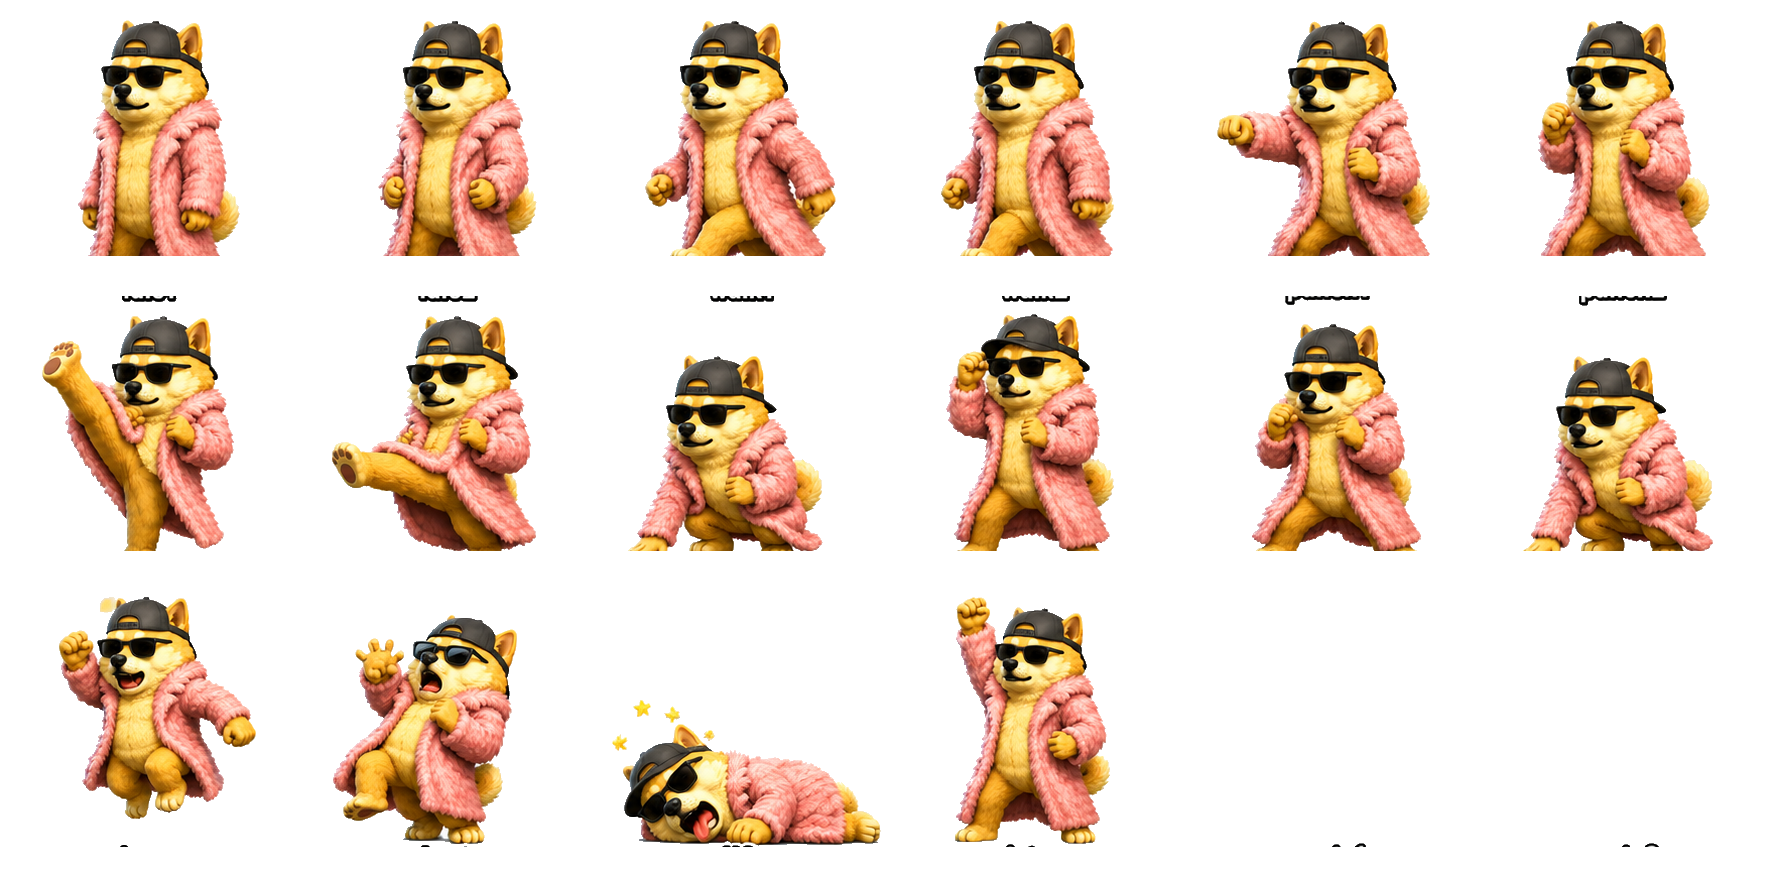
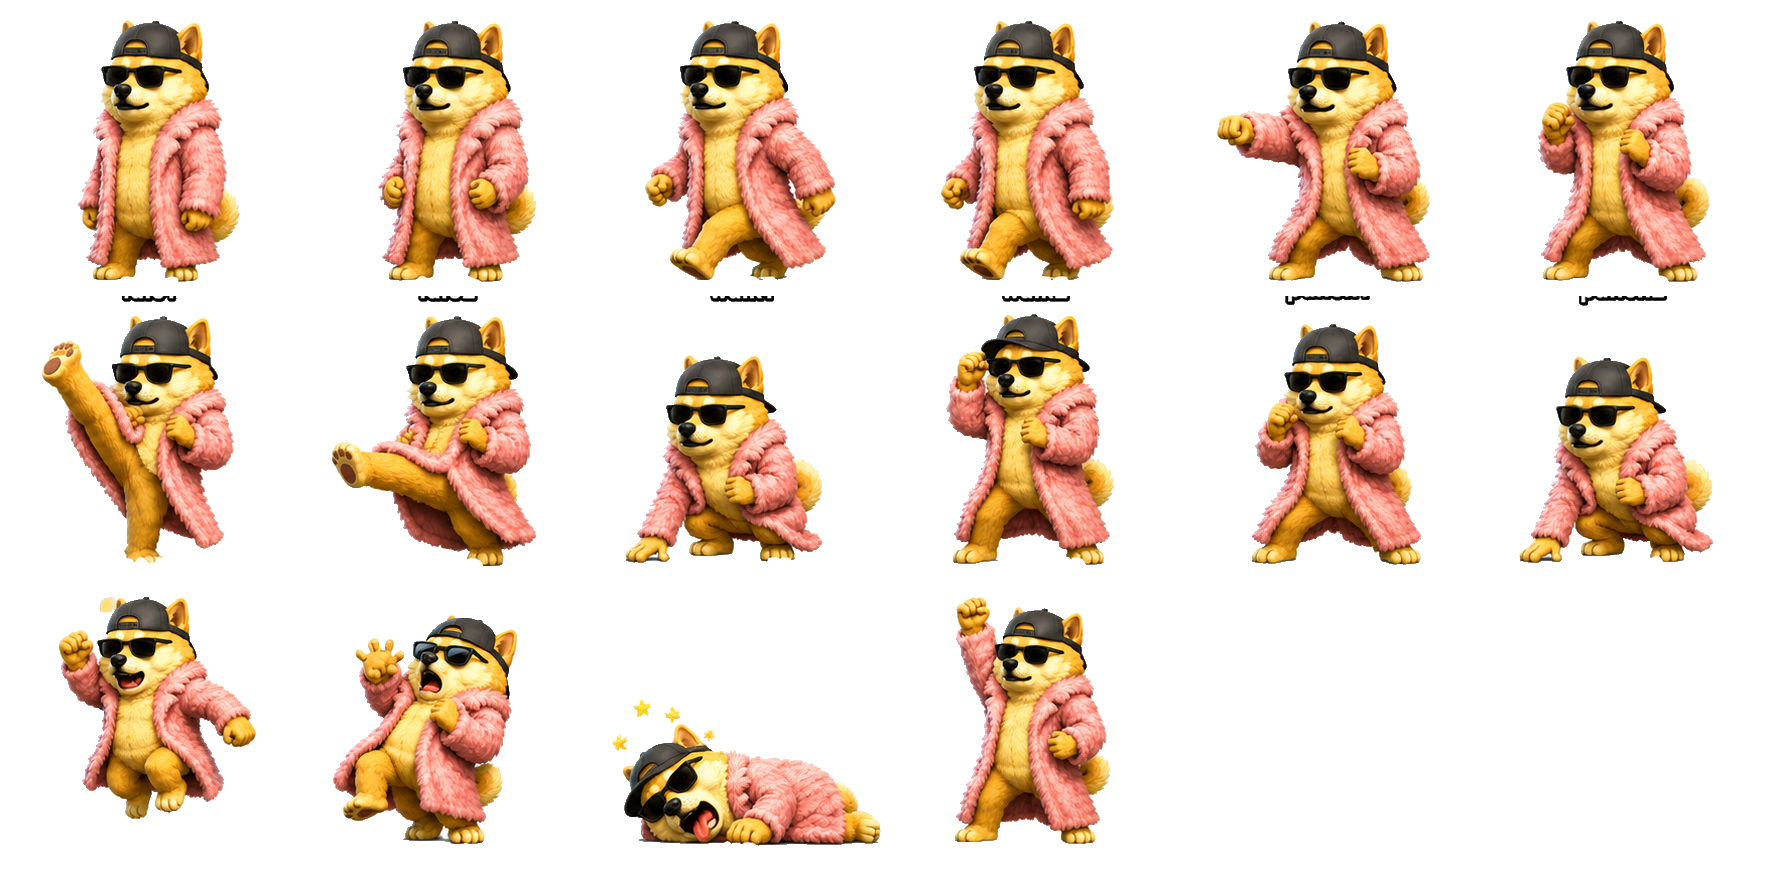
Troll Kombat: feel fixes + full-width MK arena + label-free sheets
Gameplay:
- Specials get super-armor — an incoming hit no longer cancels your special.
- Blocking made reliable: lighter chip (10%), softer block stamina drain, and
  a shorter/forgiving "rekt" stagger so guarding actually holds.
- Movement freed up: wider arena bounds, higher jump, and soft *passable*
  separation so you can push through an opponent (no more cornered-on-the-left).

Bigger arena + layout:
- Canvas world enlarged to 1280x600; floor/walls/spawns/fighter scale derive
  from it so there's real room to move.
- Cabinet is now full-bleed (spans the device width) with the hero copy stacked
  above; HUD/controls align to the play screen; bolder Mortal-Kombat-style HUD.

Art:
- Re-cleaned the ChatGPT sheets with component-based label removal — the baked
  text (e.g. the "jump"/"KO" labels that showed on the sprite) is gone, feet
  intact. Verified via contact-strip renders + the headless match harness.

diff --git a/assets/games/troll-kombat/game.js b/assets/games/troll-kombat/game.js
@@ -22,10 +22,11 @@
   const H = canvas.height;  // 540
 
   // --- Stage geometry ---------------------------------------------------------
-  const FLOOR_Y = 486;          // y of the ground line (feet rest here)
-  const WALL_L = 128;           // left fighter bound (fighter centre)
-  const WALL_R = W - 128;       // right fighter bound
+  const FLOOR_Y = H - 56;       // y of the ground line (feet rest here)
+  const WALL_L = 70;            // left fighter bound (fighter centre) — roomy arena
+  const WALL_R = W - 70;        // right fighter bound
   const FIGHTER_SCALE = 1.18;   // rig is ~190px tall before scale
+  const SPAWN_L = Math.round(W * 0.30), SPAWN_R = Math.round(W * 0.70);
 
   // --- Match tuning -----------------------------------------------------------
   const ROUND_TIME = 60;        // seconds
@@ -180,7 +181,7 @@
   // procedural muscle rig. `spriteScale` maps the source top->feet span to
   // TARGET_BODY so every fighter is the same on-screen height.
   const SPRITE_DIR = "assets/games/troll-kombat/fighters/";
-  const TARGET_BODY = 272;   // on-screen feet->top height, px
+  const TARGET_BODY = 300;   // on-screen feet->top height, px
 
   // Strip near-black pixels → transparent. Returns an offscreen canvas.
   function stripBlackBg(img, threshold) {
@@ -517,7 +518,7 @@
     // Stamina bottomed out → drop guard, brief vulnerable stagger.
     enterRekt() {
       if (this.rektStun > 0 || this.state === "ko") return;
-      this.rektStun = 1.1;
+      this.rektStun = 0.8;
       this.state = "hit";
       this.attack = null;
       this.stamina = 0;
@@ -545,26 +546,31 @@
       if (this.rektStun > 0 && !blocked) dmg *= 1.25;   // rekt = extra vulnerable
       this.facing = fromX < this.x ? 1 : -1;
       if (blocked) {
-        this.hp = Math.max(0, this.hp - dmg * 0.18);
-        this.blockStun = 0.16;
-        this.vx = (this.x < fromX ? -1 : 1) * push * 0.4;
+        this.hp = Math.max(0, this.hp - dmg * 0.1);     // light chip only
+        this.blockStun = 0.12;
+        this.vx = (this.x < fromX ? -1 : 1) * push * 0.32;
         this.meter = Math.min(MAX_METER, this.meter + dmg * 0.4);
         audio.block();
-        spark(this.x + this.facing * 50, this.feetY - 150, this.pal.accent, 6, true);
+        spark(this.x + this.facing * 50, this.feetY - 150, this.pal.accent, 12, true);
         return;
       }
       this.hp = Math.max(0, this.hp - dmg);
       this.tookDamage = true;
-      this.hitstun = 0.30;
+      this.meter = Math.min(MAX_METER, this.meter + dmg * 1.1);
       this.flash = 0.16;
       this.hurtFace = 0.6;
-      this.state = "hit";
-      this.attack = null;
-      this.vx = (this.x < fromX ? -1 : 1) * push;
-      this.meter = Math.min(MAX_METER, this.meter + dmg * 1.1);
       audio.hitSpark();
       spark(this.x + (fromX < this.x ? 44 : -44), this.feetY - 150, "#fff2a8", 12, false);
       shake(Math.min(10, dmg * 0.7));
+      // Super-armor: a special in progress powers through incoming hits.
+      if (this.attack && this.attack.type === "special") {
+        this.vx = (this.x < fromX ? -1 : 1) * push * 0.25;
+      } else {
+        this.hitstun = 0.30;
+        this.state = "hit";
+        this.attack = null;
+        this.vx = (this.x < fromX ? -1 : 1) * push;
+      }
       if (this.hp <= 0) this.ko();
     }
     ko() {
@@ -582,7 +588,7 @@
       this.dashT = Math.max(0, this.dashT - dt);
       const wasRekt = this.rektStun > 0;
       this.rektStun = Math.max(0, this.rektStun - dt);
-      if (wasRekt && this.rektStun === 0) this.stamina = 35;   // recover after the stagger
+      if (wasRekt && this.rektStun === 0) this.stamina = 45;   // recover after the stagger
       this.vx = (this.vx || 0);
 
       // blink
@@ -628,27 +634,27 @@
         if (intent.special) this.startAttack("special");
         else if (intent.kick) this.startAttack("kick");
         else if (intent.punch) this.startAttack("punch");
-        else if (intent.dash && this.grounded && this.dashT <= 0 && this.stamina >= 18) {
+        else if (intent.dash && this.grounded && this.dashT <= 0 && this.stamina >= 16) {
           const d = move !== 0 ? move : this.facing;
-          this.vx = d * 470; this.dashT = 0.26; this.stamina -= 18;
+          this.vx = d * 560; this.dashT = 0.26; this.stamina -= 16;
           this.state = "walk"; this.walkDir = d * this.facing;
           audio.blip(440, 0.12, "sawtooth", 0.1, 700); regen = false;
         }
         else if (intent.up && this.grounded) {
-          this.vy = 520; this.state = "jump";
-          this.stamina = Math.max(0, this.stamina - 12); audio.jump(); regen = false;
+          this.vy = 680; this.state = "jump";
+          this.stamina = Math.max(0, this.stamina - 8); audio.jump(); regen = false;
         }
         else {
           const blocking = intent.block && this.grounded;
           if (blocking) {
             this.state = "block"; this.vx *= 0.6;
-            this.stamina -= 26 * dt; regen = false;
+            this.stamina -= 12 * dt; regen = false;
             if (this.stamina <= 0) { this.stamina = 0; this.enterRekt(); }
           }
           else if (intent.crouch && this.grounded) { this.state = "crouch"; }
           else if (this.grounded) {
             if (move !== 0) {
-              this.x += move * 230 * dt;
+              this.x += move * 280 * dt;
               this.state = "walk";
               this.walkDir = move * this.facing; // +1 forward, -1 back
             } else { this.state = "idle"; }
@@ -1388,8 +1394,8 @@
     init(p1Def, p2Def, diff) {
       this.diff = diff;
       this.fighters = [
-        new Fighter(p1Def, 320, 1, false),
-        new Fighter(p2Def, 640, -1, true),
+        new Fighter(p1Def, SPAWN_L, 1, false),
+        new Fighter(p2Def, SPAWN_R, -1, true),
       ];
       this.fighters[0].rounds = 0; this.fighters[1].rounds = 0;
       this.ai = new AI(diff);
@@ -1400,7 +1406,7 @@
     },
     startRound() {
       const [a, b] = this.fighters;
-      a.reset(320, 1); b.reset(640, -1);   // HP resets each round; meter carries over
+      a.reset(SPAWN_L, 1); b.reset(SPAWN_R, -1);   // HP resets each round; meter carries over
       this.timer = ROUND_TIME;
       this.phase = "intro"; this.phaseT = 0;
       this.finisher = false;
@@ -1491,11 +1497,13 @@
   };
   const NEUTRAL = { left: false, right: false, up: false, crouch: false, block: false, punch: false, kick: false, special: false };
 
+  // Soft, passable separation: a gentle nudge when nearly overlapping so you can
+  // still push through an opponent (no more getting cornered against a wall).
   function separate(a, b) {
-    const minGap = 100;
+    const minGap = 46;
     const dx = b.x - a.x;
     if (Math.abs(dx) < minGap && a.grounded && b.grounded) {
-      const overlap = (minGap - Math.abs(dx)) / 2;
+      const overlap = (minGap - Math.abs(dx)) / 2 * 0.28;
       const s = dx >= 0 ? 1 : -1;
       a.x -= s * overlap; b.x += s * overlap;
       a.x = clamp(a.x, WALL_L, WALL_R); b.x = clamp(b.x, WALL_L, WALL_R);

diff --git a/assets/games/troll-kombat/style.css b/assets/games/troll-kombat/style.css
@@ -74,13 +74,16 @@ h1, h2, h3, p { margin: 0; }
 .arcade-shell { width: min(1440px, 100%); margin: 0 auto; padding: clamp(12px, 2.2vw, 28px); }
 
 /* ---- Hero copy --------------------------------------------------------- */
+/* Stacked layout so the arena can span the full device width (MK-style). */
 .fight-hero {
-  display: grid;
-  grid-template-columns: minmax(260px, 0.58fr) minmax(360px, 1.42fr);
-  gap: clamp(18px, 3vw, 34px); align-items: center;
-  min-height: calc(100svh - 78px); padding-bottom: clamp(14px, 2vw, 24px);
+  display: flex; flex-direction: column; gap: clamp(10px, 1.6vw, 18px);
+  padding-bottom: clamp(14px, 2vw, 24px);
 }
-.game-copy { min-width: 0; display: grid; gap: 16px; align-content: center; }
+.game-copy {
+  min-width: 0; display: grid; gap: 12px; align-content: center;
+  width: min(1100px, 100%); margin: 0 auto; text-align: center; justify-items: center;
+}
+.hero-stats, .stat-chips { justify-content: center; }
 .eyebrow {
   color: var(--green); font-family: var(--mono); font-size: 12px; font-weight: 900;
   text-transform: uppercase; text-shadow: 0 0 16px rgba(77, 255, 115, 0.56);
@@ -102,14 +105,18 @@ h1 {
 /* ---- Cabinet ----------------------------------------------------------- */
 .fight-cabinet {
   position: relative; min-width: 0; overflow: hidden;
-  border: 1px solid rgba(255, 255, 255, 0.18); border-radius: 8px;
+  width: 100vw; margin-left: calc(50% - 50vw);   /* full-bleed across the device */
+  border-top: 2px solid rgba(255, 49, 79, 0.4); border-bottom: 2px solid rgba(255, 49, 79, 0.4);
   background:
-    linear-gradient(180deg, rgba(255, 255, 255, 0.08), transparent 16%),
-    linear-gradient(145deg, rgba(255, 49, 79, 0.18), rgba(154, 92, 255, 0.12) 40%, rgba(77, 255, 115, 0.1)),
-    var(--panel);
-  box-shadow: var(--shadow), 0 0 55px rgba(255, 49, 79, 0.16);
+    linear-gradient(180deg, rgba(255, 255, 255, 0.06), transparent 12%),
+    radial-gradient(120% 80% at 50% 0%, rgba(255, 49, 79, 0.16), transparent 60%),
+    linear-gradient(180deg, #0b0410, #050008 60%);
+  box-shadow: var(--shadow), 0 0 70px rgba(255, 49, 79, 0.18);
 }
-.fight-cabinet::before { content: ""; position: absolute; inset: 8px; border: 1px solid rgba(255, 49, 79, 0.22); pointer-events: none; }
+.fight-cabinet::before {
+  content: ""; position: absolute; inset: 0; pointer-events: none;
+  border-top: 1px solid rgba(255, 49, 79, 0.25); border-bottom: 1px solid rgba(255, 49, 79, 0.25);
+}
 .cabinet-marquee {
   position: relative; z-index: 1; display: flex; align-items: center; justify-content: space-between; gap: 12px;
   padding: 15px 18px; border-bottom: 1px solid rgba(255, 255, 255, 0.16);
@@ -173,10 +180,10 @@ h1 {
 /* ---- Screen + canvas --------------------------------------------------- */
 .screen-wrap {
   position: relative; z-index: 1;
-  width: min(calc(100% - 24px), calc(min(60svh, 660px) * 16 / 9));
-  margin: 0 auto; overflow: hidden; aspect-ratio: 16 / 9; max-height: min(60svh, 660px);
+  width: min(calc(100vw - 8px), calc(min(84svh, 900px) * 1280 / 600));
+  margin: 0 auto; overflow: hidden; aspect-ratio: 1280 / 600; max-height: min(84svh, 900px);
   border: 1px solid rgba(255, 49, 79, 0.34); background: #050008;
-  box-shadow: inset 0 0 34px rgba(255, 49, 79, 0.12);
+  box-shadow: inset 0 0 40px rgba(255, 49, 79, 0.14);
   touch-action: none; user-select: none; -webkit-user-select: none;
 }
 #tk-canvas { display: block; width: 100%; height: 100%; background: #0a0510; }
@@ -456,9 +463,23 @@ h1 {
 /* toy-mode cabinet gets a cooler, glassier screen glow */
 body[data-mode="toy"] .screen-wrap { box-shadow: inset 0 0 48px rgba(77, 238, 255, 0.16); }
 
+/* Full-bleed cabinet: align HUD + controls to the play screen, bolder MK HUD. */
+.fight-cabinet { --screenW: min(calc(100vw - 8px), calc(min(84svh, 900px) * 1280 / 600)); }
+.fight-hud, .cabinet-footer, .touch-controls {
+  width: var(--screenW); margin-left: auto; margin-right: auto;
+}
+.fight-hud { padding-top: 14px; }
+.health-track { height: 26px; border-width: 2px; }
+.hud-meta strong { font-size: clamp(14px, 1.7vw, 21px); }
+.hud-center strong { font-size: clamp(30px, 3.2vw, 48px); }
+.cabinet-marquee { font-size: clamp(14px, 1.7vw, 20px); letter-spacing: 0.1em; }
+.icon-btn { right: max(14px, calc((100vw - var(--screenW)) / 2 + 6px)); }
+
 @media (max-width: 760px) {
   .stat-chips { width: 100%; }
   .stage-grid { grid-template-columns: repeat(2, minmax(0, 1fr)); }
+  .fight-hud, .cabinet-footer, .touch-controls { width: 100%; }
+  .icon-btn { right: 12px; }
 }
 @media (max-width: 430px) {
   .stage-thumb { height: 48px; }

diff --git a/troll-kombat.html b/troll-kombat.html
@@ -86,7 +86,7 @@
         </div>
 
         <div class="screen-wrap">
-          <canvas id="tk-canvas" width="960" height="540" aria-label="Troll Kombat fighting game"></canvas>
+          <canvas id="tk-canvas" width="1280" height="600" aria-label="Troll Kombat fighting game"></canvas>
 
           <div id="tk-announce" class="tk-announce" aria-live="assertive"></div>
 
